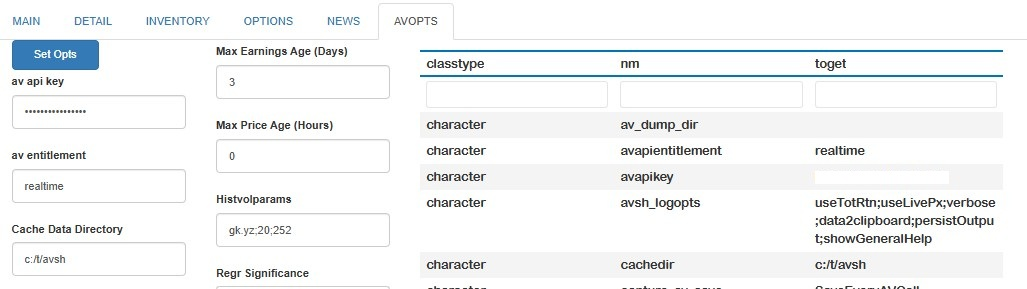
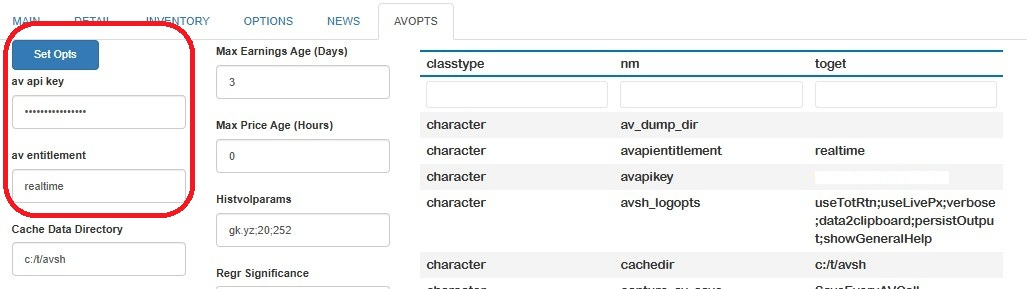
Finish README

Changed region(s): [[0.0, 0.0623, 0.187, 0.7785], [0.187, 0.5917, 0.2181, 0.654]]

diff --git a/docs/news/index.html b/docs/news/index.html
@@ -18,8 +18,11 @@
       <ul class="navbar-nav me-auto"><li class="nav-item"><a class="nav-link" href="../reference/index.html">Reference</a></li>
 <li class="nav-item dropdown">
   <button class="nav-link dropdown-toggle" type="button" id="dropdown-articles" data-bs-toggle="dropdown" aria-expanded="false" aria-haspopup="true">Articles</button>
-  <ul class="dropdown-menu" aria-labelledby="dropdown-articles"><li><a class="dropdown-item" href="../articles/shinyapp-alphavantagepf.html">shinyapp-basicusage-alphavantagepf</a></li>
-    <li><a class="dropdown-item" href="../articles/usage-alphvantagepf.html">usage-alphavantagepf</a></li>
+  <ul class="dropdown-menu" aria-labelledby="dropdown-articles"><li><a class="dropdown-item" href="../articles/API_interface_usage.html">API_interface_usage</a></li>
+    <li><a class="dropdown-item" href="../articles/ShinyApp_Data_Management.html">ShinyApp_Data_Management</a></li>
+    <li><a class="dropdown-item" href="../articles/ShinyApp_Graphs_and_Options.html">ShinyApp_Graphs_and_Options</a></li>
+    <li><a class="dropdown-item" href="../articles/ShinyApp_New_Functionality.html">ShinyApp_New_Functionality</a></li>
+    <li><a class="dropdown-item" href="../articles/ShinyApp_setup_and_usage.html">ShinyApp_setup_and_usage</a></li>
   </ul></li>
 <li class="active nav-item"><a class="nav-link" href="../news/index.html">Changelog</a></li>
       </ul><ul class="navbar-nav"><li class="nav-item"><form class="form-inline" role="search">
@@ -45,7 +48,7 @@
 <p>New feature todo * calendars</p>
 <div class="section level3">
 <h3 id="major-changes-0-8-3">Major Changes<a class="anchor" aria-label="anchor" href="#major-changes-0-8-3"></a></h3>
-<p>The Shiny interface has been completely redesigned (and recoded) to have an extendable command line interface for all analytics. New functions have been added for adding and managing data outside the app. Users can now add their own analytics, posssibly with the help of with several “helper” functions to interface with the GUI. See vignettes for details.</p>
+<p>The Shiny interface has been completely redesigned (and recoded) to have an extendable command line interface for all analytics. New functions have been added for adding and managing data outside the app. Users can also add their own analytics, posssibly with the help of with several “helper” functions to interface with the GUI. See vignettes for details.</p>
 </div>
 <div class="section level3">
 <h3 id="new-features-in-api-interface-0-8-3">New Features in API interface<a class="anchor" aria-label="anchor" href="#new-features-in-api-interface-0-8-3"></a></h3>
@@ -60,6 +63,11 @@
 <ul><li>Fixed app crash if no earnings transcript available.</li>
 <li>Fixed graphing so that stepPlots are chosen appropriately, not always.</li>
 <li>splitfirst ignored for single name plots.</li>
+</ul></div>
+<div class="section level3">
+<h3 id="breaking-changes-0-8-3">Breaking changes<a class="anchor" aria-label="anchor" href="#breaking-changes-0-8-3"></a></h3>
+<ul><li>
+<code>av_api_key()</code> has been renamed to <code><a href="../reference/avpf_api_key.html">avpf_api_key()</a></code> which has an additional parameter <code>entitlement</code>. <code>av_api_key()</code> is also in the <code>alphavantager</code> package. Usage of that function is still compatible with this package, but an additional step to set entitlement status is necessary.</li>
 </ul></div>
 </div>
     <div class="section level2">

diff --git a/README.md b/README.md
@@ -50,14 +50,17 @@ print(avpf_api_key())
 ```
 
 If you want to use the Shiny interface, you can launch it using the
-command `av_runShiny()`, which will fill in the API keys if they have
-been set, or direct you to set them if not.
+command
+[av_runShiny()](https://derekholmes0.github.io/alphavantagepf/reference/av_runShiny.html),
+which will fill in the API keys if they have been set, or direct you to
+set them if not.
 
 ## Functional Interface Example
 
-Once the API key has been set, use the function `av_get_pf()` which
-requires at minimum two arguments, a `symbol` (put first to facilitate
-usage in pipes) and an Alphavantage “function” `av_fun`.\
+Once the API key has been set, use the function
+[av_get_pf()](https://derekholmes0.github.io/alphavantagepf/reference/av_get_pf.html)
+which requires at minimum two arguments, a `symbol` (put first to
+facilitate usage in pipes) and an Alphavantage “function” `av_fun`.\
 The `symbol` parameter is required, but can be a simple empty string for
 functions that don’t require a symbol, e.g. `TOP_GAINERS_LOSERS`, or a
 list of symbols for bulk data, e.g. `REALTIME_BULK_QUOTES`. Data is
@@ -107,7 +110,7 @@ av_get_pf("","TOP_GAINERS_LOSERS") |> av_extract_df("top_losers")
  2:   ZBIO 16.6100      -17.8900         -51.8551%   8034469 TOP_GAINERS_LOSERS
 ```
 
-or Currencies quotes using
+or currency quotes using
 
 ``` r
 av_get_pf("USD/BRL","CURRENCY_EXCHANGE_RATE") |> av_extract_fx()
@@ -152,8 +155,8 @@ analyze and visualize data. Some key features of the interface are:
 
 To launch the app, run
 [av_runShiny()](https://derekholmes0.github.io/alphavantagepf/reference/av_runShiny.html),
-and start with the first step of setting your API key. (See
-[Vignette](https://derekholmes0.github.io/alphavantagepf/articles/ShinyApp_setup_and_usage.html)
+and start with the first step of setting your API key. (See [Setup
+Vignette](https://derekholmes0.github.io/alphavantagepf/articles/ShinyApp_setup_and_usage.html)
 for other items you can set) Once the API key is set, it’s easy to start
 building a data set and analyzing it in real time.
 
@@ -161,46 +164,57 @@ building a data set and analyzing it in real time.
 
 The first time
 [av_runShiny()](https://derekholmes0.github.io/alphavantagepf/reference/av_runShiny.html)
-is run, a temporary data directory is created and a setup/options tab is
-displayed. At a minimum, fill in your API key and permissionings status
-(unless already saved with `avpf_api_key()`). Unless you want to keep
-the data in a default caching directory, I would also recommend creating
-a location for data to be saved. Hit
-<span style="background-color: #003366; color: #FFFFFF;">Set Opts</span>
-and a table showing those selections (along with all other saved
-internal data) will be shown. A full description of the options
-available is given in the setup vignette
-<span style="background-color: #003366; color: #FFFFFF;">LINK_setup</span>.
+is run, a temporary data directory is created and a local copy of
+applications defaults (and other data) is created. The app will start in
+the
+<span style="border: 1px solid #000000; padding: 2px 6px;">AVOPTS</span>
+tab, where you can set up and maintain all aspects of the app behavior.
+
+**At a minimum**, fill in your API key and permissionings status, unless
+already saved with `avpf_api_key()`. By default, all of the data
+downloaded and used by the app is kept in a default caching directory. I
+would highly recommend creating a more friendly location for data to be
+saved, which in the example below is set to a temp directory
+`c:/t/avsh`. To change any of the options, set them as needed and hit
+the <span style="background-color: #003366; color: #FFFFFF;">Set
+Opts</span> button. A table showing those selections (along with all
+other saved internal data) will be shown, with changed options
+highlighted.
+
+A full description of the options available is given in the options
+ignette [Options
+Vignette](https://derekholmes0.github.io/alphavantagepf/articles/ShinyApp_Graphs_and_Options.html)
 
 <figure>
 <img src="man/figures/InitialSetup.jpg" alt="Initial Setup" />
 <figcaption aria-hidden="true">Initial Setup</figcaption>
 </figure>
 
+Now you have the ability to get data form AlphaVantage and can get
+started with analyses.
+
 ## Finding and running commands
 
-Not much can be done without a little data, so the first step is to
-start with a list of commands and doing a few analyses (e.g. graphs) for
-a set of assets.
-
-While a few options are set outside the “command line”, all analyses are
-typed into the top (yellowed) line. Commands have one of two forms:
+The app seeks to minimize the amount of typing or mousework to get
+analyses done by using short commands, with options, that operate on
+sets of symbols. Critical options are set outside the command line, but
+overrides after the commands are possible. Commands have one of two
+forms:
 
 - **Single name commands** do not need any particular set of assets, and
   all start with the prefix `AV.`. The first command you should run is
-  `AV.H` to show what commands are available. (Note that more
-  explanatory notes are given unless the `showGeneralHelp` option is
-  deselected in the
-  <span style="border: 1px solid #000000; padding: 2px 6px;">AVOPTS</span>
-  tab.)
+  `AV.H` to show what commands are available[^1].
 
 <figure>
 <img src="man/figures/av1.jpg" alt="Set opts" />
 <figcaption aria-hidden="true">Set opts</figcaption>
 </figure>
 
+Single name commands are used mostly to query the internal state of the
+app or to remember and recall previous commands.
+
 - **Commands on asset groups** are applied to a semi-colon delimited set
-  of assets, and is of the form
+  of assets, and are of the form
 
 > Symbol_11;Symbol_2;…;Symbol_n Command Options
 
@@ -213,8 +227,8 @@ the yellow line, and get a dygraph (created with
 [fgts_dygraph()](https://derekholmes0.github.io/FinanceGraphs/reference/fgts_dygraph.html)):
 
 <figure>
-<img src="man/figures/av1.jpg" alt="ETF Example" />
-<figcaption aria-hidden="true">ETF Example</figcaption>
+<img src="man/figures/avh.jpg" alt="Help Screen" />
+<figcaption aria-hidden="true">Help Screen</figcaption>
 </figure>
 
 A brief outline of what can be done is shown in the table below. Note
@@ -228,7 +242,7 @@ that
 
 | Category | Example(s) | Functionality |
 |:--:|:--:|:---|
-| Time Series | `QQQ GPI`,`SPY GPI2` | Asset prices or rebased indices, possibly in the middle of the time series |
+| Time Series | `QQQ;DIA GPI`,`SPY GPI2` | Asset prices or rebased indices, possibly in the middle of the time series |
 |  | `QQQ GV` | Rolling volatilities |
 | Scatter | `QQQ SCATI` | Scatter plot of assets against counterasset |
 | Relative Value | `QQQ RV` | Active return indices and statistics against counterasset |
@@ -238,6 +252,15 @@ that
 | Ticker Search | `mining S` | Search on symbol or name |
 | Options | `QQQ OS` | Table of options, implied Vols, etc |
 | Miscellaneous | `av.mov`,`av.inv` | Market movers, data inventory, help |
+
+As an example, suppose we wish to find simple excess returns (over
+`SPY`) and betas for two asset classes proxied by `HYG` and `EEM`. Just
+type in `HYG;EEM RV` to get:
+
+<figure>
+<img src="man/figures/eemhygrv.jpg" alt="Help Screen" />
+<figcaption aria-hidden="true">Help Screen</figcaption>
+</figure>
 
 This app seeks to facilitate quick ad-hoc analyses by minimizing typing
 and providing command persistence.
@@ -259,14 +282,15 @@ and providing command persistence.
 ## Data management and adding new commands
 
 Price, dividend and earnings data are all stored internally in
-`data.table()` format[^1], with columns coming directly from relevant
-the relevant `av_get_pf()` calls. One of the key contributions of this
-package is to standardize different [Alpha Vantage
-API](https://www.alphavantage.co/) output forms into one common format.
-That effort requires knowing what asset class each ticker belongs to,
-since there are differnt API calls for each. Asset classes are
-determined by comparing them with pre-downloaded[^2] symbol lists, or
-asssumed to be currencies if they are of the standard
+`data.table()` format[^2], with columns coming directly from relevant
+the relevant
+[av_get_pf()](https://derekholmes0.github.io/alphavantagepf/reference/av_get_pf.html)
+calls. One of the key contributions of this package is to standardize
+different [Alpha Vantage API](https://www.alphavantage.co/) output forms
+into one common format. That effort requires knowing what asset class
+each ticker belongs to, since there are differnt API calls for each.
+Asset classes are determined by comparing them with pre-downloaded[^3]
+symbol lists, or asssumed to be currencies if they are of the standard
 `[[:alpha:]]*3/[[:alpha:]]*3` format.
 
 ### Adding data
@@ -279,9 +303,10 @@ called `avpf_px.fst`) can be added using the
 function. Historical earnings (kept in `avpf_earn.fst`) or forecasts
 (kept in `avpf_earnest.fst`) are managed separately using
 [av_add_earn()](https://derekholmes0.github.io/alphavantagepf/reference/av_add_earn.html).
-See
-<span style="background-color: #003366; color: #FFFFFF;">LINK_data</span>
-for details.
+Those functions can be called independently without user data to source
+the data from Alphavantage. See [Data Management
+Vignette](https://derekholmes0.github.io/alphavantagepf/articles/ShinyApp_Data_Management.html)
+for further details.
 
 As an example, suppose we wish to plot two fixed income ETFs against Fed
 Funds. We can use e.g. `quantmod` to download and add the data. All we
@@ -295,14 +320,10 @@ ffdta <- ffdta[,.(DT_ENTRY=index,close=FEDFUNDS,symbol="FEDFUNDS")]
 av_add_px(ffdta)
 ```
 
-\*\* PICTURE \*\*
-
-Historical earnings and estimates can be added or downloaded using
-[av_add_earn()](https://derekholmes0.github.io/alphavantagepf/reference/av_add_earn.html),
-If the data itself is not given, then a simple `data.frame()` of
-equities can be given to download the relevant data. Asset lists can
-also be added using
-[av_add_assetgroups()](https://derekholmes0.github.io/alphavantagepf/reference/av_add_assetgroups.html)
+<figure>
+<img src="man/figures/FIwFEDFUNDS.jpg" alt="FIwFF" />
+<figcaption aria-hidden="true">FIwFF</figcaption>
+</figure>
 
 ### Getting data
 
@@ -315,8 +336,8 @@ cached to the `AV dump Directory` which *optionally* can be set also in
 <span style="border: 1px solid #000000; padding: 2px 6px;">AVOPTS</span>.
 Data is saved in a named (by Alphavantage function) list of data.tables,
 and can be keyed (and upserted) or appended to a saved `.Rd` file. See
-<span style="background-color: #003366; color: #FFFFFF;">LINK_setup</span>
-for details.
+[Data Management
+Vignette](https://derekholmes0.github.io/alphavantagepf/articles/ShinyApp_Data_Management.html)
 
 ## Adding new Functionality
 
@@ -325,19 +346,18 @@ them with the app. New functions have two arguments: (1) a string with
 the command and any subsequent options, and (2) A list of all current
 (de-reactive’d) values of the input fields. They must return a (possibly
 named) list of `gt()` tables, `dygraphs()`, or `ggplots()` to be
-displayed when the command is run. See
-<span style="background-color: #003366; color: #FFFFFF;">LINK_newfunc</span>
-for details.
+displayed when the command is run. See [New Functionality
+Vignette](https://derekholmes0.github.io/alphavantagepf/articles/ShinyApp_New_Functionality.html)
 
-To do:
+[^1]: Note that more explanatory notes are given unless the
+    `showGeneralHelp` option is deselected in the
+    <span style="border: 1px solid #000000; padding: 2px 6px;">AVOPTS</span>
+    tab.
 
-1.  Make sure commands are instantaly recognizable on addition
-2.  LLMs?
-
-[^1]: Larger data sets (e.g. price data) is stored in a
+[^2]: Larger data sets (e.g. price data) is stored in a
     [fst](https://www.fstpackage.org/) file. Smaller data is kept in
     standard `.Rd` files. A database interface is planned at some point.
 
-[^2]: Lists of equities, ETFs and available indices (see `av.tickers`)
+[^3]: Lists of equities, ETFs and available indices (see `av.tickers`)
     are downloaded each time the `av_runShiny()` is run.
     Cryptocurrencies tickers are hard-coded into the package.
